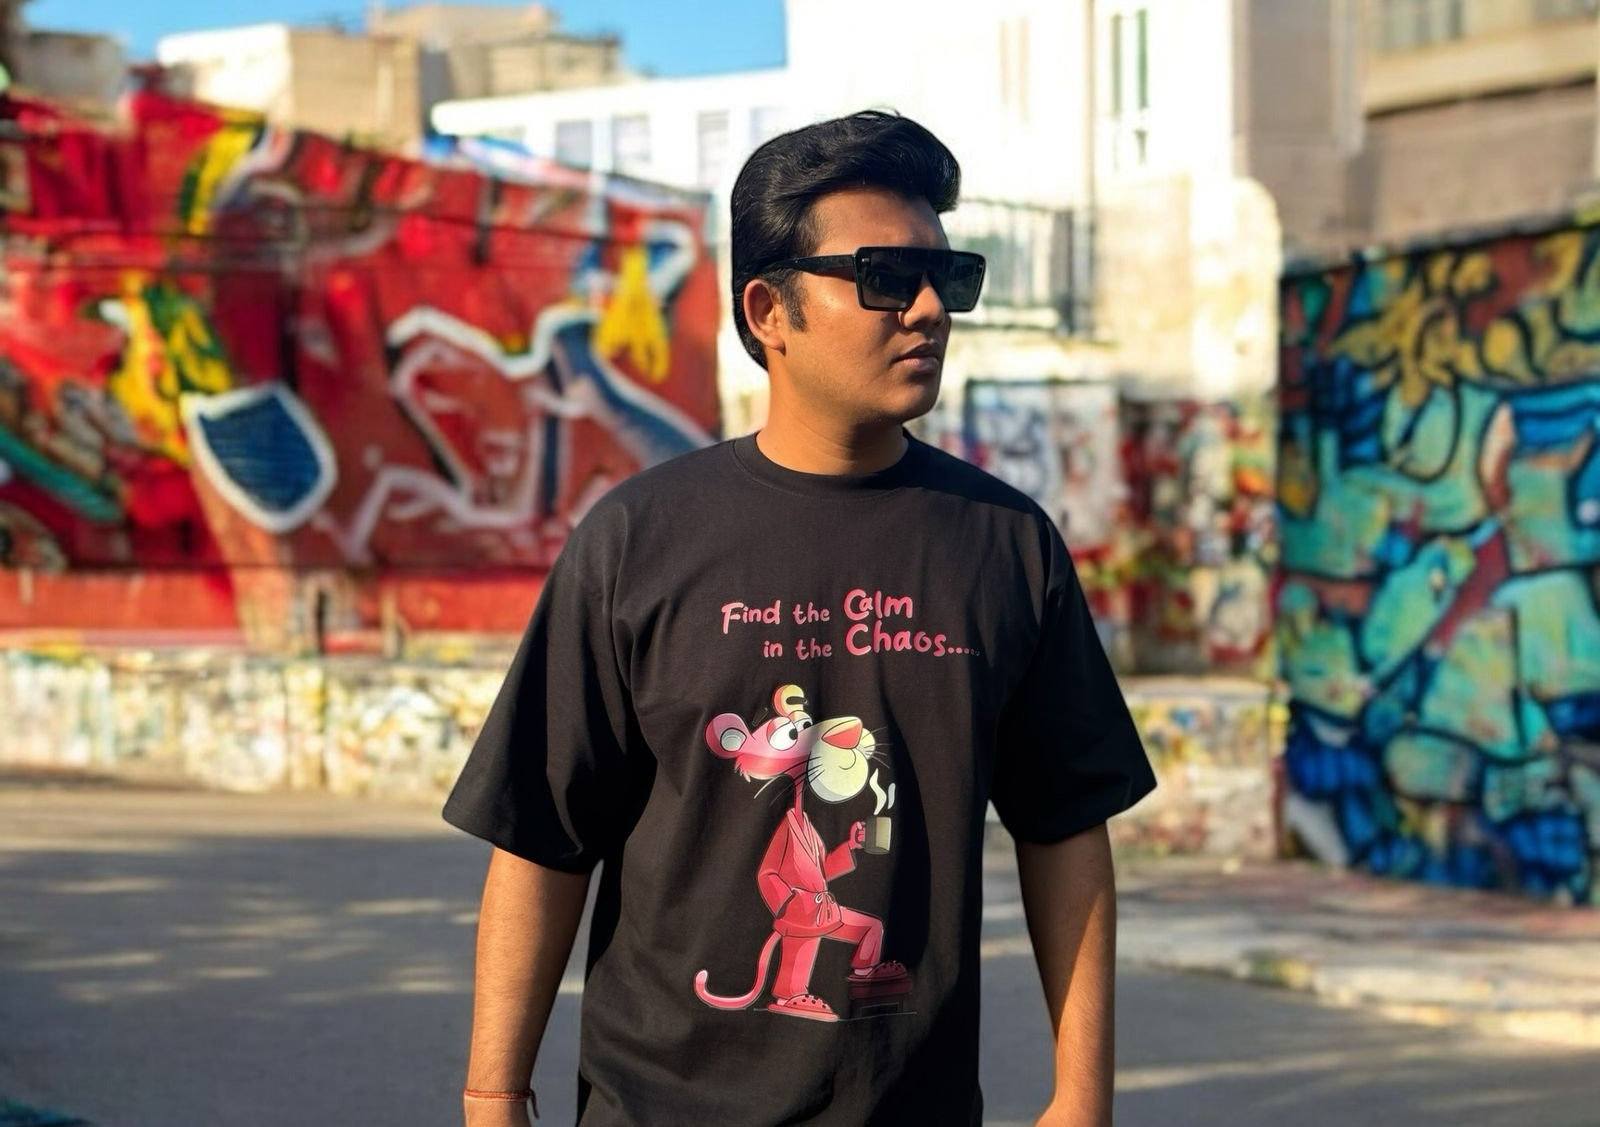
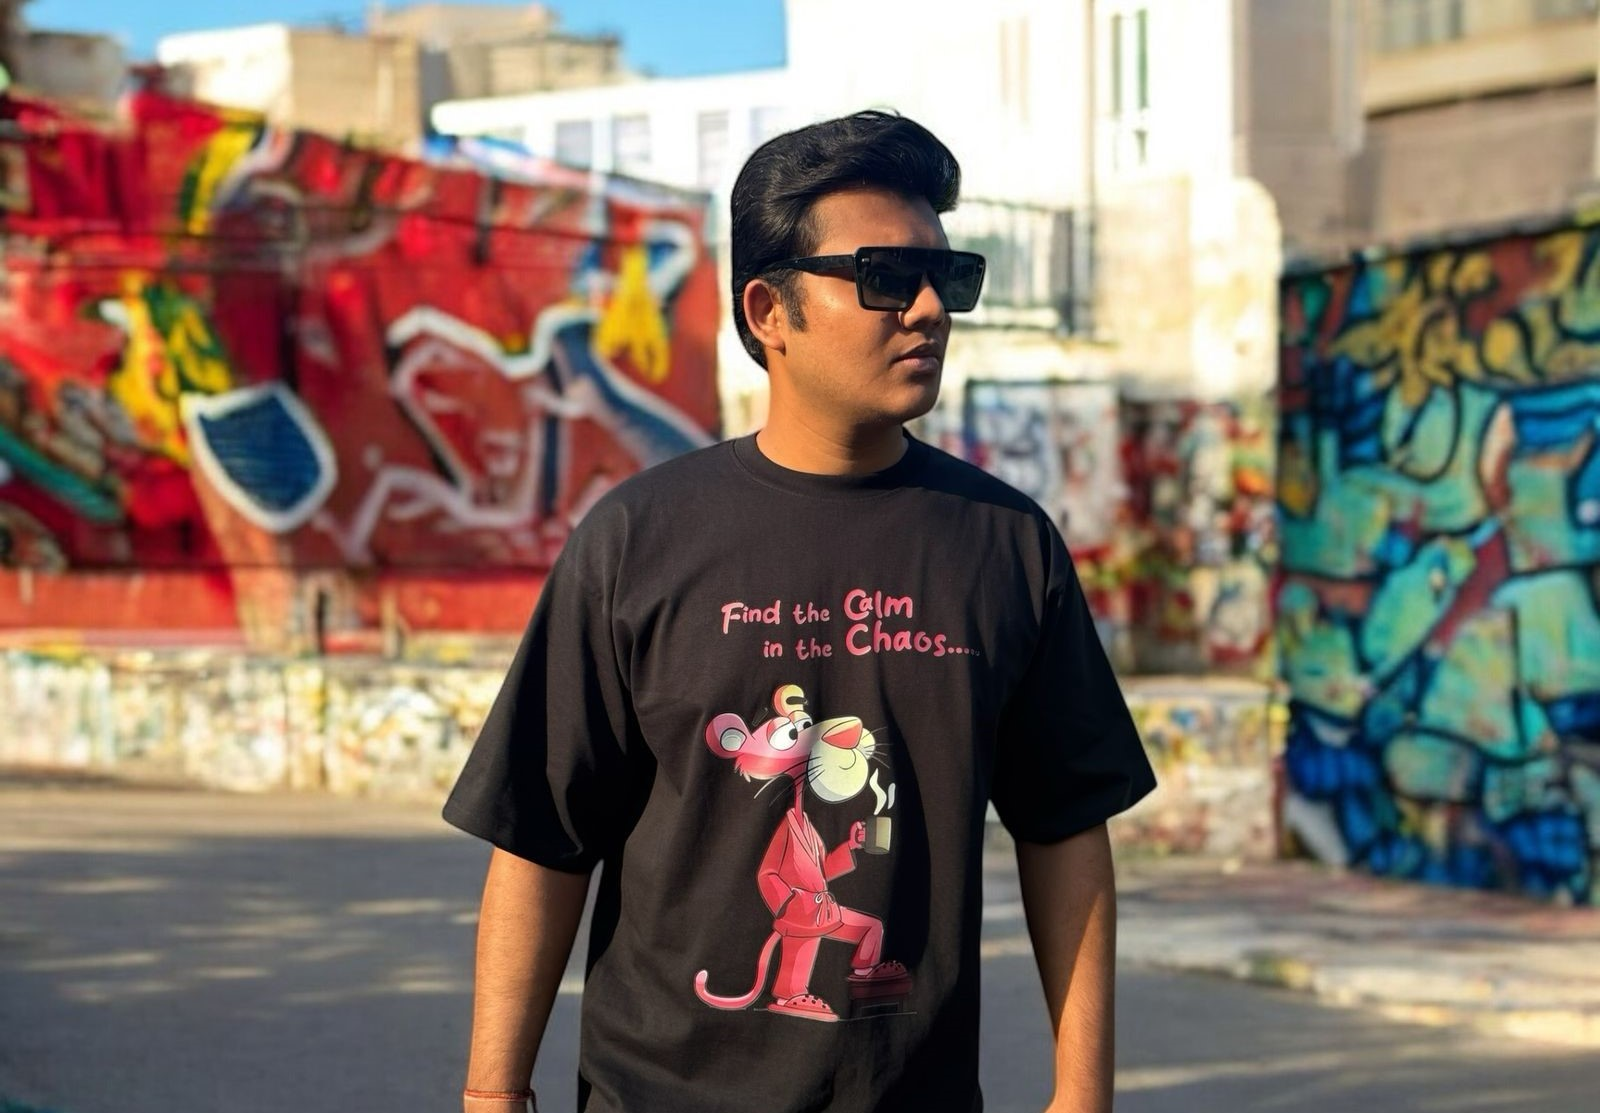
Added new photos

diff --git a/src/pages/ShopNowPage.jsx b/src/pages/ShopNowPage.jsx
@@ -21,8 +21,8 @@ const ShopNowPage = () => {
    
     "/images/abhinav1.jpg",
     "/images/vivek1.jpg",
-    "/images/collection5.png",
-    "/images/BOY TSHIRT 2.png"
+    "/images/12.jpg",
+    "/images/11.jpg"
   ];
 
   useEffect(() => {
@@ -69,13 +69,14 @@ const ShopNowPage = () => {
       <div className="container mx-auto px-4 sm:px-6 lg:px-8">
         <div className="flex flex-col lg:flex-row items-center gap-8 lg:gap-8 py-8 lg:py-16">
           {/* Left Section - Swiper Image */}
-          <motion.div 
-            className="w-full lg:w-1/2"
-            initial={{ opacity: 0, x: -20 }}
-            whileInView={{ opacity: 1, x: 0 }}
-            viewport={{ once: true }}
-            transition={{ duration: 0.8 }}
-          >
+          
+         <motion.div
+         className="w-full lg:w-1/2 h-auto"
+         initial={{ opacity: 0, x: -20 }}
+         whileInView={{ opacity: 1, x: 0 }}
+         viewport={{ once: true }}
+         transition={{ duration: 0.8 }}
+       >
             <div className="relative group">
               <Swiper
                 modules={[Autoplay, EffectCreative, Pagination]}

diff --git a/src/pages/HomePage.jsx b/src/pages/HomePage.jsx
@@ -13,6 +13,9 @@ const HomepageCarousel = () => {
 
   const products = [
   
+    { image: '/images/13.jpg', link: '/' },
+    { image: '/images/14.jpg', link: '/' },
+    { image: '/images/15.jpg', link: '/' },
     { image: '/images/2.jpg', link: '/' },
     { image: '/images/3.jpg', link: '/' },
     { image: '/images/4.jpg', link: '/' },
